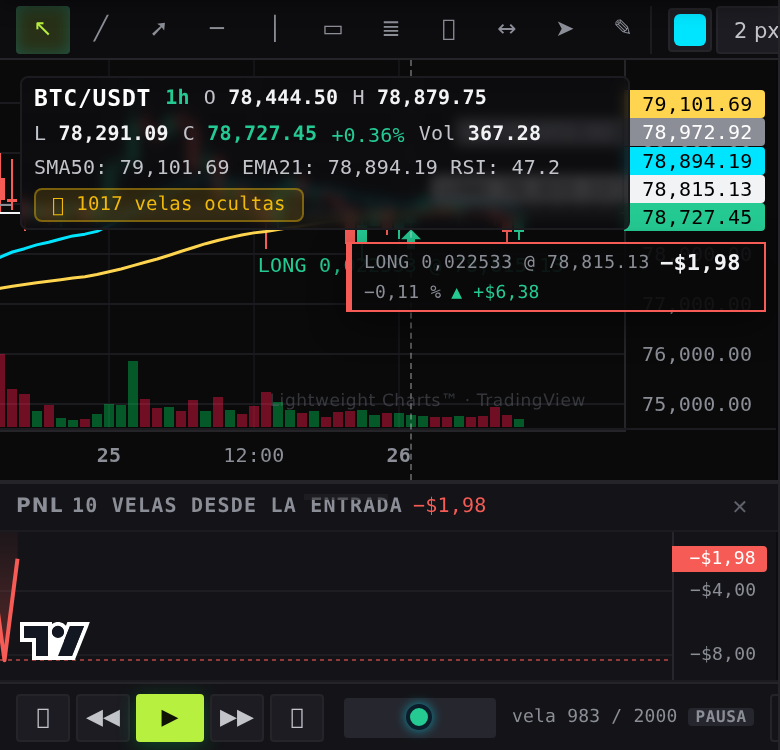
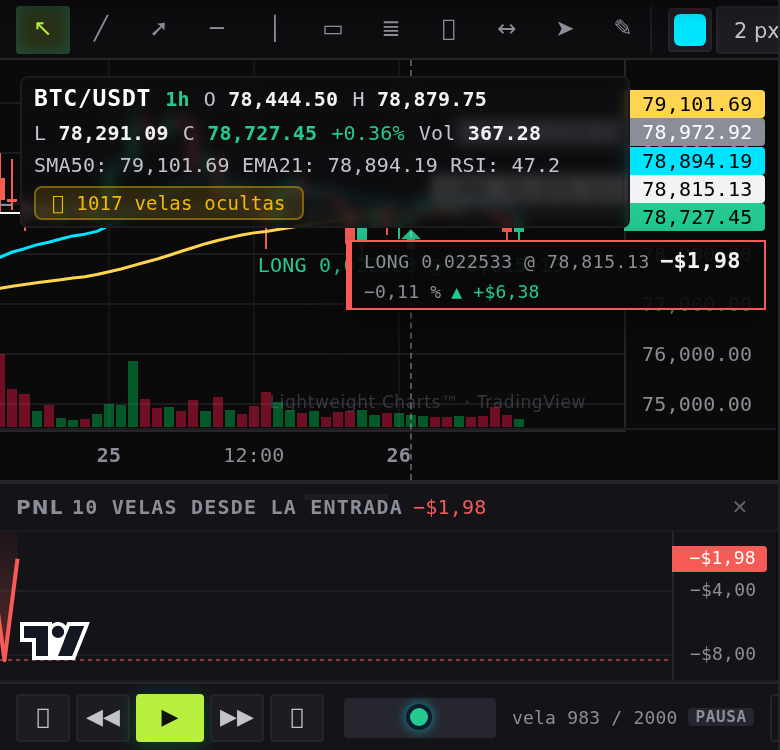
Captura 48 con la barra deslizada hasta el final y README con la batería cerrada (1157 locales / 1478 publicadas)
La captura del medio salía con el MISMO md5 que la de la barra de replay: en
reposo, mismo viewport y mismo estado son el mismo plano, así que no contaba
nada. Ahora se toma con #drawToolbar deslizada hasta el final, que es justo lo
que el bloque afirma (lo que no cabe se alcanza: grosor, estilo, borrar
selección, borrar todos, imán, PnL, autoescala, log y «⊘ scroll» dentro de la
caja de 30 px) y deja de ser un duplicado. El comentario del bloque iba con los
glifos de esos botones, que se perdieron al escribir el fichero: van por su
nombre.

README: el bloque nuevo de la barra de dibujo (tres arreglos medidos en once
tallas, 12 comprobaciones en responsive.test.js y 11 en pages-bitunix.js), la
leyenda de la captura 48 en el carrusel, los contadores de las suites (133 →
145 y 120 → 131), los totales de la batería y los md5 de los siete ficheros de
código servidos. Quitada la lista de md5 de las capturas: las regenera cada
corrida de suites, dos píxeles de un panel las reescriben todas y no son huella
del despliegue —en este incremento cambiaron dos veces solas—.

diff --git a/tests/responsive.test.js b/tests/responsive.test.js
@@ -685,7 +685,18 @@ const wait = (ms) => new Promise((r) => setTimeout(r, ms));
      derecho —que es la señal de que detrás hay más, no de que falte nada—. */
   await page.setViewport({ width: 390, height: 844, deviceScaleFactor: 1 });
   await wait(420);
+  /* La captura se toma con la barra DESLIZADA HASTA EL FINAL, que es lo que este bloque
+     afirma: que lo que no cabe se alcanza. En reposo sería un plano idéntico al de la barra
+     de replay (de hecho el primer intento dio el mismo md5 que captura-46: mismo viewport,
+     mismo estado, nada que contar). Al final de la barra se ven, dentro de su caja de 30 px:
+     el estilo de línea, el grosor, borrar selección, borrar todos, el imán, el PnL marcado,
+     la autoescala, el log y el bloqueo del scroll (los glifos de esos botones se perdían al
+     escribir el comentario, así que aquí van por su nombre). */
+  await page.evaluate(() => { const d = document.getElementById('drawToolbar'); d.scrollLeft = d.scrollWidth; });
+  await wait(240);
   await page.screenshot({ path: path.join(__dirname, '..', 'docs', 'captura-48-barra-dibujo-movil.png') });
+  await page.evaluate(() => { document.getElementById('drawToolbar').scrollLeft = 0; });
+  await wait(140);
 
   /* Captura de la escalera del teléfono, abierta hasta el último panel: los dos
      indicadores con su gráfico de 32 px y la ✕ alcanzable. */

diff --git a/README.md b/README.md
@@ -433,7 +433,7 @@ contrato que se exigió a los chips de velocidad y a las ✕ de la escalera, por
 la añadidura de que se exige que algo se quede fuera en reposo (`fueraReposo > 0`): sin eso, el assert
 de «todos alcanzables» sería gratis en una barra que cupiera entera—. En reposo se ven las once
 herramientas, el color y el grosor **cortándose en el borde derecho**, y ese corte es la señal de que
-hay más (captura 48). El dedo manda bien: una pasada de 200 px que empieza *encima* del botón «hline»
+hay más; la captura 48 enseña la otra punta, con la barra deslizada hasta el final. El dedo manda bien: una pasada de 200 px que empieza *encima* del botón «hline»
 desliza la barra y **no** cambia la herramienta ni dibuja —si el `click` se disparara al soltar, cada
 pasada cambiaría de lápiz y el usuario se creería trazando una horizontal mientras intenta llegar al
 ✕ de «borrar dibujos»—; un toque corto en el mismo punto sí cambia a `hline`, que es la otra mitad del
@@ -580,10 +580,12 @@ enteros y el eje de tiempo pintado bajo las velas:
 
 ![Escalera de indicadores en el móvil](docs/captura-47-escalera-movil.png)
 
-**La barra de dibujo en el teléfono** (390×844), en reposo: las once herramientas y el color a la
-vista, el grosor cortándose en el borde derecho (ahí detrás quedan estilo de línea, borrar, limpiar,
-imán, PnL, autoescala, log y «⊘ scroll», y todos se alcanzan deslizando) y la caja de la barra
-ocupando exacto su fila de 30 px:
+**La barra de dibujo en el teléfono** (390×844), con la barra deslizada hasta el final: es la
+prueba de que lo que no cabe se alcanza —estilo de línea, grosor, borrar selección, borrar todos,
+imán, PnL marcado, autoescala, log y «⊘ scroll» dentro de la caja de 30 px—, y se toma así porque
+en reposo el plano era *idéntico* al de la barra de replay (mismo viewport, mismo estado: el mismo
+md5, es decir, nada que contar). El reposo se ve en la captura 46, con las once herramientas, el
+color y el grosor cortándose en el borde derecho —ese corte es la señal de que hay más—:
 
 ![Barra de dibujo en el móvil](docs/captura-48-barra-dibujo-movil.png)
 
@@ -674,10 +676,14 @@ node tests/network.test.js    #  10 comprobaciones de paginación y datos reales
 node tests/browser.capture.js #  48 comprobaciones en Chromium real + capturas PNG
 node tests/iframe.test.js     #  22 comprobaciones dentro de un iframe sandbox (sin red)
 node tests/preview-live.test.js # 17 comprobaciones del preview EN VIVO (datos reales vía proxy)
-node tests/responsive.test.js #  133 comprobaciones de tamaño: 10 paneles, sin recortes y
+node tests/responsive.test.js #  145 comprobaciones de tamaño: 10 paneles, sin recortes y
                               #   con RSI + MACD abiertos (el peor caso de la escalera) el
                               #   gráfico no pinta sobre los paneles: caja == fila, 0 solape
                               #   + el bloque «Avanzado» del teléfono, medido pulsando
+                              #   + la barra de dibujo (fila == caja en cuatro tallas, dianas
+                              #     >=20 px, y lo que no cabe: centro pulsable en algún punto
+                              #     del deslizamiento, con algo fuera en reposo para que el
+                              #     assert no sea gratis)
                               #   + la barra de replay del teléfono: cuatro bordes por control,
                               #     swipe hasta cada velocidad e ida y vuelta del deslizador
                               #   + la escalera del teléfono: hueco pintado por panel, cap con
@@ -729,19 +735,27 @@ node tests/single.test.js     # archivo único en navegador real sin red
 
 ```
 Resultado actual (`node tools/run-all.js`, todo lo que no depende del despliegue):
-**1145 comprobaciones, 0 fallos** ✅ · **23 suites** locales · 1 sin contador (`single.test.js`,
+**1157 comprobaciones, 0 fallos** ✅ · **23 suites** locales · 1 sin contador (`single.test.js`,
 que es un escenario completo de navegador y cuenta sus comprobaciones a medias)
 Con las seis que auditan lo publicado (`node tools/run-all.js --publicadas`):
-**1455 comprobaciones, 0 fallos** ✅ · **29 suites** · 1 sin contador (`single.test.js`)
-(1145 locales + 310 sobre `luisnav83-hash.github.io/bar-replay-pro`, medidas el 2026-10-09
-con el despliegue en `a43b959`. Aquí no basta con que la batería esté verde: se comprueba que
+**1478 comprobaciones, 0 fallos** ✅ · **29 suites** · 1 sin contador (`single.test.js`)
+(1157 locales + 321 sobre `luisnav83-hash.github.io/bar-replay-pro`, medidas el 2026-10-10
+con el despliegue en `8555a78`. Aquí no basta con que la batería esté verde: se comprueba que
 lo servido ES lo construido, midiendo el `md5` en la URL pública contra el fichero local —
-`bar-replay-pro-unico.html` `8c60162f…` (951 744 B), `index.html` `47646e33`,
-`css/bitunix.css` `1af1cfbb`, `js/chart.js` `20df4968`, `js/pnlChart.js` `9e871624`,
-`js/uiController.js` `0163b026` y las capturas nuevas `docs/captura-46-barra-replay-movil.png`
-`99ad1af5` y `docs/captura-47-escalera-movil.png` `f2deb5df`: los ocho, byte a byte iguales—).
+`bar-replay-pro-unico.html` `9ee75a56…` (951 845 B), `index.html` `47646e33`,
+`css/bitunix.css` `ab76f49b`, `css/chart.css` `dd086d92`, `js/chart.js` `20df4968`,
+`js/pnlChart.js` `9e871624`, `js/uiController.js` `0163b026`: los siete, byte a byte iguales—).
+**Y se dejó de citar el `md5` de las capturas**: las treinta y pico las regeneran las suites en
+cada corrida (otro cambio de dos píxeles en un panel las reescribe todas), así que no son una
+huella del despliegue —lo eran en el párrafo anterior de este README, y las dos últimas veces
+hubo que re-medirlas porque habían vuelto a cambiar por sí solas
 Desglose de las seis publicadas: 12 del buscador + 10 de dibujos + 46 de promediado/TP +
-57 del trailing + **120 de la piel Bitunix** (12 comprobaciones nuevas sobre lo publicado: 7 de
+57 del trailing + **131 de la piel Bitunix** (11 más sobre lo publicado —3 por talla en las tres
+tallas del bucle móvil: fila == caja con el scrollbar sin hueco cobrado, todas las dianas dentro
+de la caja y lo que desborda alcanzable—, y 2 del gesto con dedo por CDP a 390×844: la pasada que
+empieza encima de un botón desliza la barra sin cambiar de herramienta, y el toque corto sí la
+cambia, con la emulación de tacto encendida porque sin ella Blink no sintetiza el `click`; las 12 del incremento anterior
+fueron 7 de
 la barra de replay del teléfono —deslizador pisable de 20 px, línea de posición dentro de la
 barra y no debajo, escala del `<input>` 0..1000 y la perilla siguiendo al replay con el foco
 puesto— y 5 de la escalera de indicadores —hueco pintado por panel, cap con deslizamiento, eje
